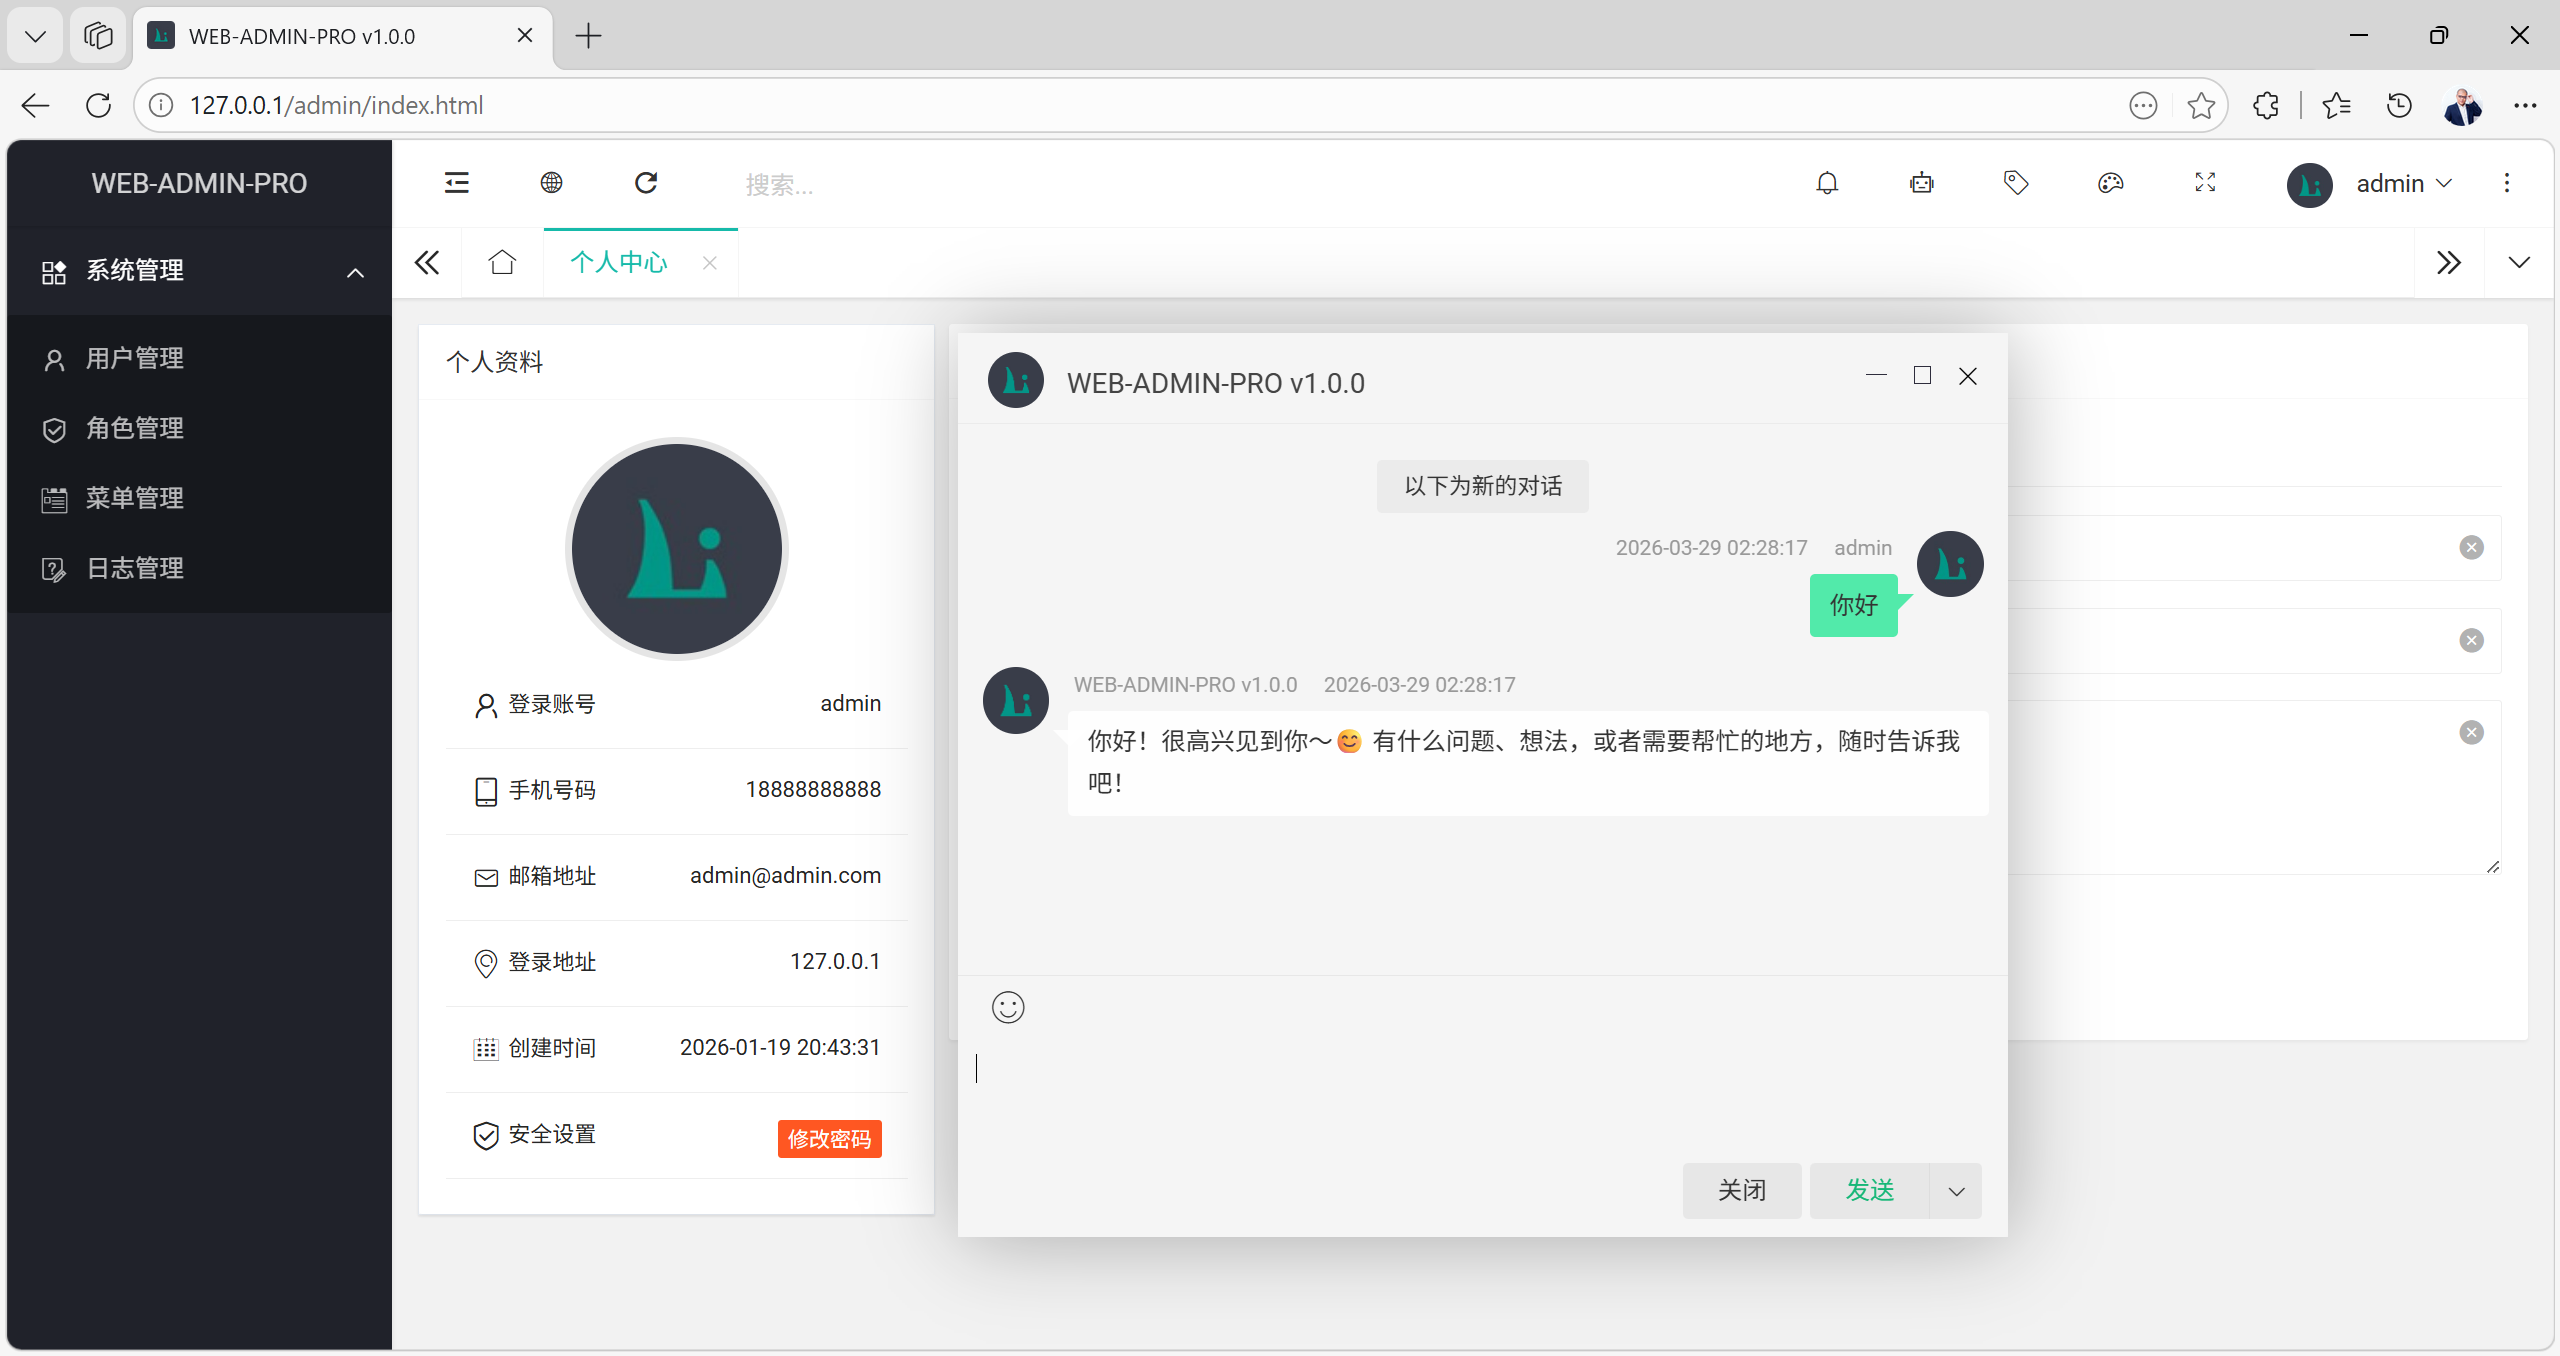
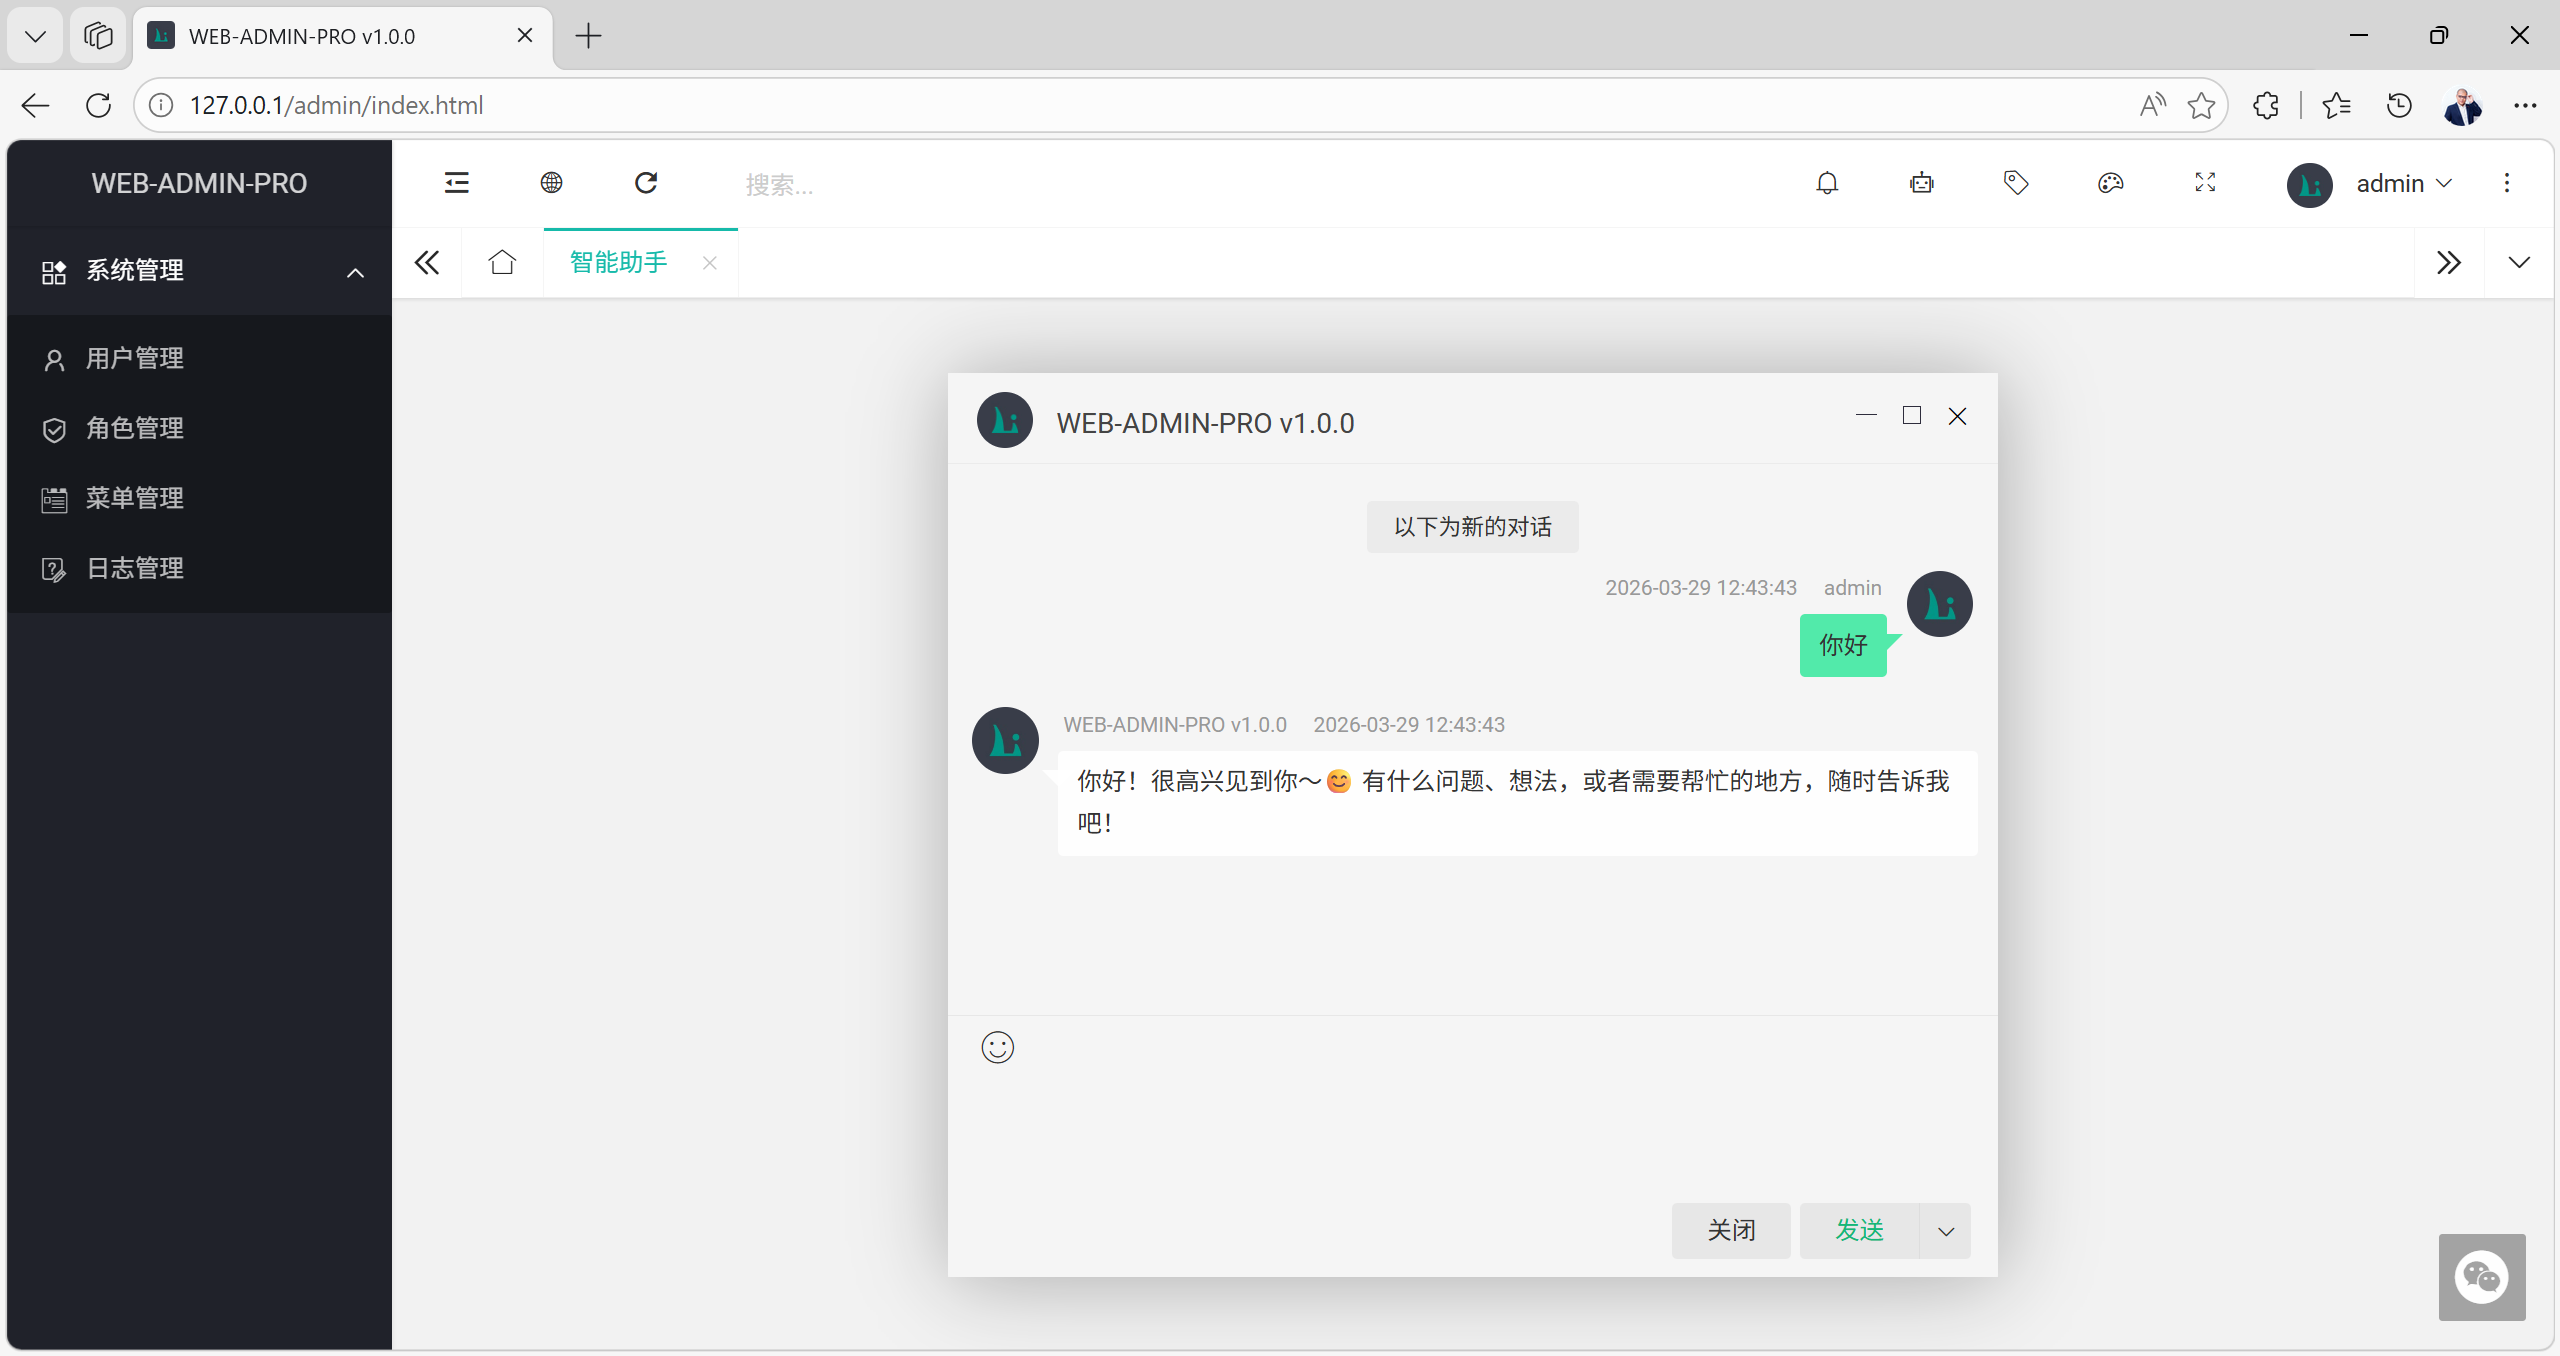
智能AI助手

diff --git a/src/main/resources/templates/admin/chat.html b/src/main/resources/templates/admin/chat.html
@@ -1,0 +1,126 @@
+<!DOCTYPE html>
+<html xmlns:th="http://www.thymeleaf.org" lang="zh">
+<head>
+    <meta charset="utf-8">
+    <title th:text="|${config.title} v${config.version}|">WEB-ADMIN-PRO</title>
+    <meta name="renderer" content="webkit">
+    <meta http-equiv="X-UA-Compatible" content="IE=edge,chrome=1">
+    <meta name="viewport" content="width=device-width, initial-scale=1.0, minimum-scale=1.0, maximum-scale=1.0, user-scalable=0">
+    <link rel="shortcut icon" type="image/x-icon" th:href="@{/favicon.ico}" href="../../static/favicon.ico"/>
+    <link rel="stylesheet" th:href="@{/layui/css/layui.css}" href="../../static/layui/css/layui.css" media="all">
+    <link rel="stylesheet" th:href="@{/admin-ui/css/admin.css}" href="../../static/admin-ui/css/admin.css" media="all">
+</head>
+<body class="layui-fluid">
+<script th:src="@{/layui/layui.js}" src="../../static/layui/layui.js"></script>
+<script th:src="@{/modules/markdown-it.min.js}" src="../../static/modules/markdown-it.min.js"></script>
+<script th:src="@{/modules/fetch-event-source.js}" src="../../static/modules/fetch-event-source.js"></script>
+<script th:inline="javascript">
+    const config = {
+        base:/*[[@{/}]]*/ '../../static/'
+        , title: /*[[${config.title}]]*/ 'WEB-ADMIN-PRO'
+        , version: /*[[${config.version}]]*/ '1.0.0'
+    }
+
+    layui.config({
+        base: config.base, version: true
+        , layimPath: config.base + 'modules/layim/'
+        , layimResPath: config.base + 'modules/layim/res/'
+    }).use(['index', 'layim', 'common'], function () {
+
+        let abortController, conversationId = layui.common.asUuid();
+        layui.layim.config({
+            contactsPanel: false
+            , init: {
+                user: {
+                    id: 'admin'
+                    , username: parent.layui.$('#sys-user').html()
+                    , avatar: parent.layui.$('#sys-avatar').attr('src')
+                }
+            }
+        });
+
+        const md = markdownit({typographer: true, linkify: true, breaks: true});
+        layui.layim.callback('contentParser', function (data) {
+            return md.render(data).replaceAll('<table>', '<table class="layui-table" lay-size="sm">');
+        });
+
+        layui.layim.on('sendMessage', function (data) {
+            console.log('sendMessage', data);
+            const user = data.user, receiver = data.receiver;
+            if (receiver.type === 'ai') {
+                const messages = [];
+                abortController = new AbortController();
+                SSE.fetchEventSource(`${config.base}ai/chat/completions`, {
+                    method: 'POST', headers: {'Content-Type': 'application/json'}
+                    , body: JSON.stringify({conversationId: conversationId, question: user.content})
+                    , signal: abortController.signal
+                    , onopen: function (response) {
+                        if (!response.ok) throw new Error(`URL ${response.status} ${response.statusText}`);
+                    }
+                    , onmessage: function (msg) {
+                        const data = JSON.parse(msg.data);
+                        data?.result?.output?.text && messages.push(data.result.output.text);
+                        if (layui.$.trim(messages.join(''))) {
+                            layui.layim.getMessage({...receiver, content: `${messages.join('')} _`, finished: false});
+                        }
+                    }
+                    , onerror: function (error) {
+                        layui.layim.getMessage({...receiver, content: `**错误信息：** ${error}`, finished: true});
+                        throw error;
+                    }
+                    , onclose: function () {
+                        layui.layim.getMessage({...receiver, content: messages.join(''), finished: true});
+                    }
+                });
+            }
+        });
+
+        layui.layim.on('chatInit', function (obj) {
+            console.log('chatInit', obj);
+            const data = obj.data, elem = obj.elem;
+            if (data.type === 'ai') {
+                const lastItem = elem.find('.layim-chat-main>ul>li').last();
+                const existMessages = layui.layim.chat.messages && layui.layim.chat.messages[data.id];
+                if (!existMessages && !lastItem.hasClass('layim-chat-system')) {
+                    layui.layim.getMessage({
+                        system: true
+                        , id: data.id
+                        , type: 'ai'
+                        , content: '以下为新的对话'
+                        , saveLocalChatlog: false
+                    });
+                }
+            }
+        });
+
+        layui.util.fixbar({
+            default: false
+            , bars: [{type: 'AI', icon: 'layui-icon-login-wechat'}]
+            , on: {
+                mouseenter: function () {
+                    layui.layer.tips(`${config.title} v${config.version}`, this, {tips: 4, fixed: true});
+                }
+                , mouseleave: function () {
+                    layui.layer.closeAll('tips');
+                }
+                , click: function () {
+                    layui.layim.chat({
+                        type: 'ai'
+                        , id: config.title
+                        , username: `${config.title} v${config.version}`
+                        , avatar: `${config.base}style/imgs/logo.jpg`
+                        , new: true
+                        , enableLocalChatlog: false
+                        , layer: {
+                            cancel: function () {
+                                if (abortController) abortController.abort();
+                            }
+                        }
+                    });
+                }
+            }
+        });
+    });
+</script>
+</body>
+</html>

diff --git a/src/main/resources/templates/admin/index.html b/src/main/resources/templates/admin/index.html
@@ -46,7 +46,7 @@
                     </a>
                 </li>
                 <li class="layui-nav-item layui-hide-xs" lay-unselect>
-                    <a href="javascript:" layadmin-event="ai">
+                    <a lay-href="chat.html" layadmin-event="chat" lay-text="智能助手">
                         <i class="layui-icon layui-icon-bot"></i>
                     </a>
                 </li>
@@ -92,7 +92,7 @@
         <div class="layui-side layui-side-menu">
             <div class="layui-side-scroll">
                 <div class="layui-logo" lay-href="home.html">
-                    <span th:text="${config.title}">ADMIN-UI-PRO</span>
+                    <span th:text="${config.title}">WEB-ADMIN-PRO</span>
                 </div>
                 <ul class="layui-nav layui-nav-tree" lay-accordion id="LAY-system-side-menu" lay-filter="layadmin-system-side-menu">
                 </ul>
@@ -132,8 +132,6 @@
     </div>
 </div>
 <script th:src="@{/layui/layui.js}" src="../../static/layui/layui.js"></script>
-<script th:src="@{/modules/markdown-it.min.js}" src="../../static/modules/markdown-it.min.js"></script>
-<script th:src="@{/modules/fetch-event-source.js}" src="../../static/modules/fetch-event-source.js"></script>
 <script th:inline="javascript">
     const config = {
         base: /*[[@{/}]]*/ '../../static/'
@@ -144,9 +142,7 @@
 
     layui.config({
         base: config.base, version: true
-        , layimPath: config.base + 'modules/layim/'
-        , layimResPath: config.base + 'modules/layim/res/'
-    }).use(['index', 'layim', 'common', 'ai-chat'], function () {
+    }).use(['index', 'common'], function () {
 
         layui.admin.events.logout = function () {
             layer.confirm('&ensp;&ensp;&ensp;&ensp;是否退出系统？', {
@@ -175,14 +171,6 @@
             done: function (data) {
                 if (data.data.avatar) layui.$('#sys-avatar').attr('src', data.data.avatar);
                 layui.$('#sys-user').html(data.data.username);
-                layui.layim.config({
-                    contactsPanel: false, init: {
-                        user: {
-                            id: data.data.username, username: data.data.username
-                            , avatar: data.data.avatar ? data.data.avatar : `${config.base}style/imgs/logo.jpg`
-                        }
-                    }
-                });
             }
         });
 

diff --git a/src/main/java/com/admin/web/controller/ModelViewController.java b/src/main/java/com/admin/web/controller/ModelViewController.java
@@ -55,6 +55,12 @@ public class ModelViewController extends BaseController {
         return new ModelAndView("admin/notice");
     }
 
+    @SysPermissions(SysLogin.class)
+    @GetMapping("/admin/chat.html")
+    public ModelAndView chat() {
+        return new ModelAndView("admin/chat");
+    }
+
     @SysPermissions
     @GetMapping("/admin/user.html")
     public ModelAndView user() {
